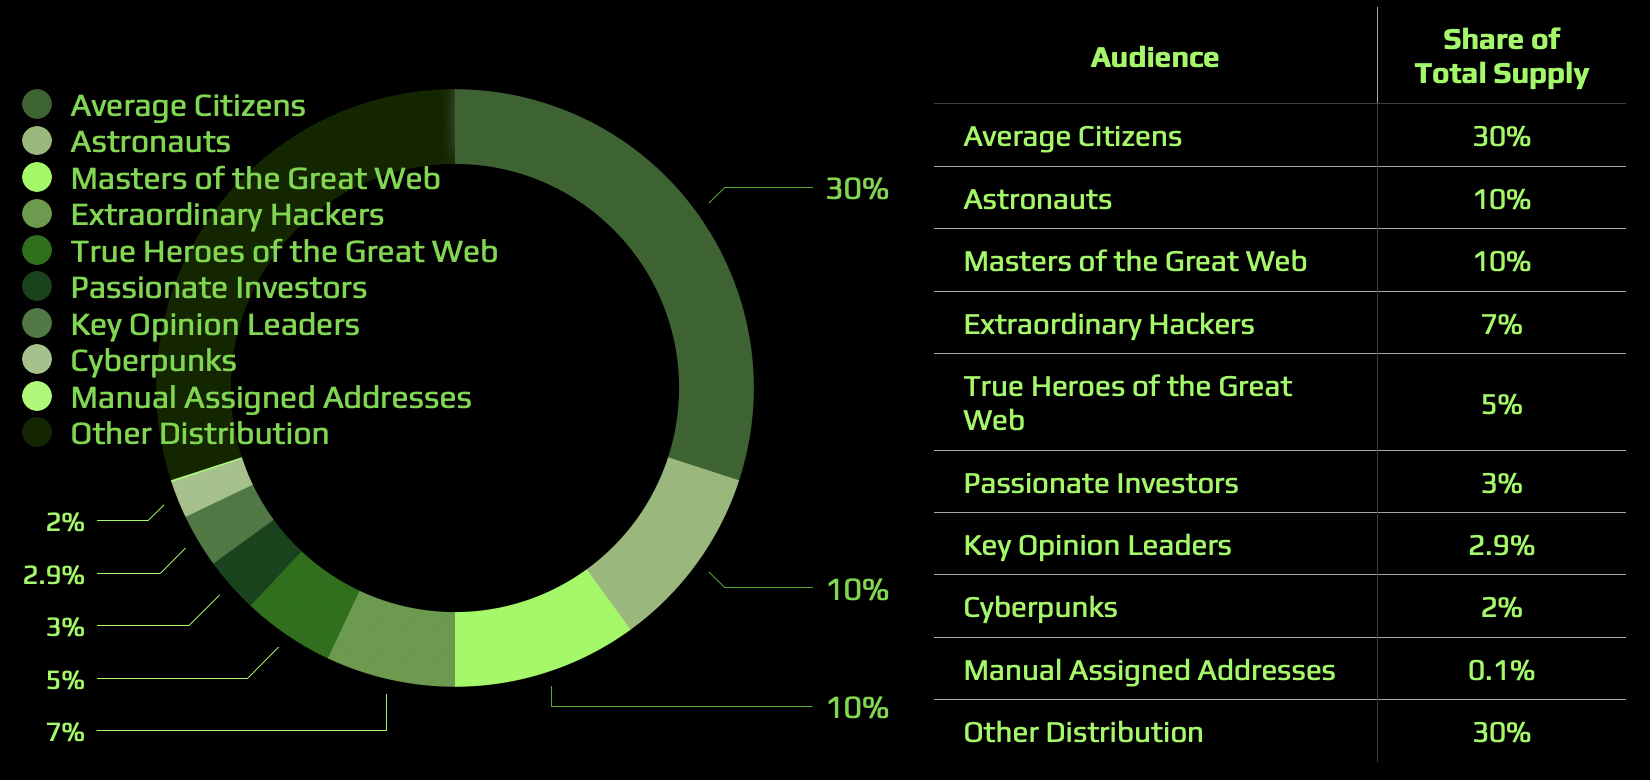
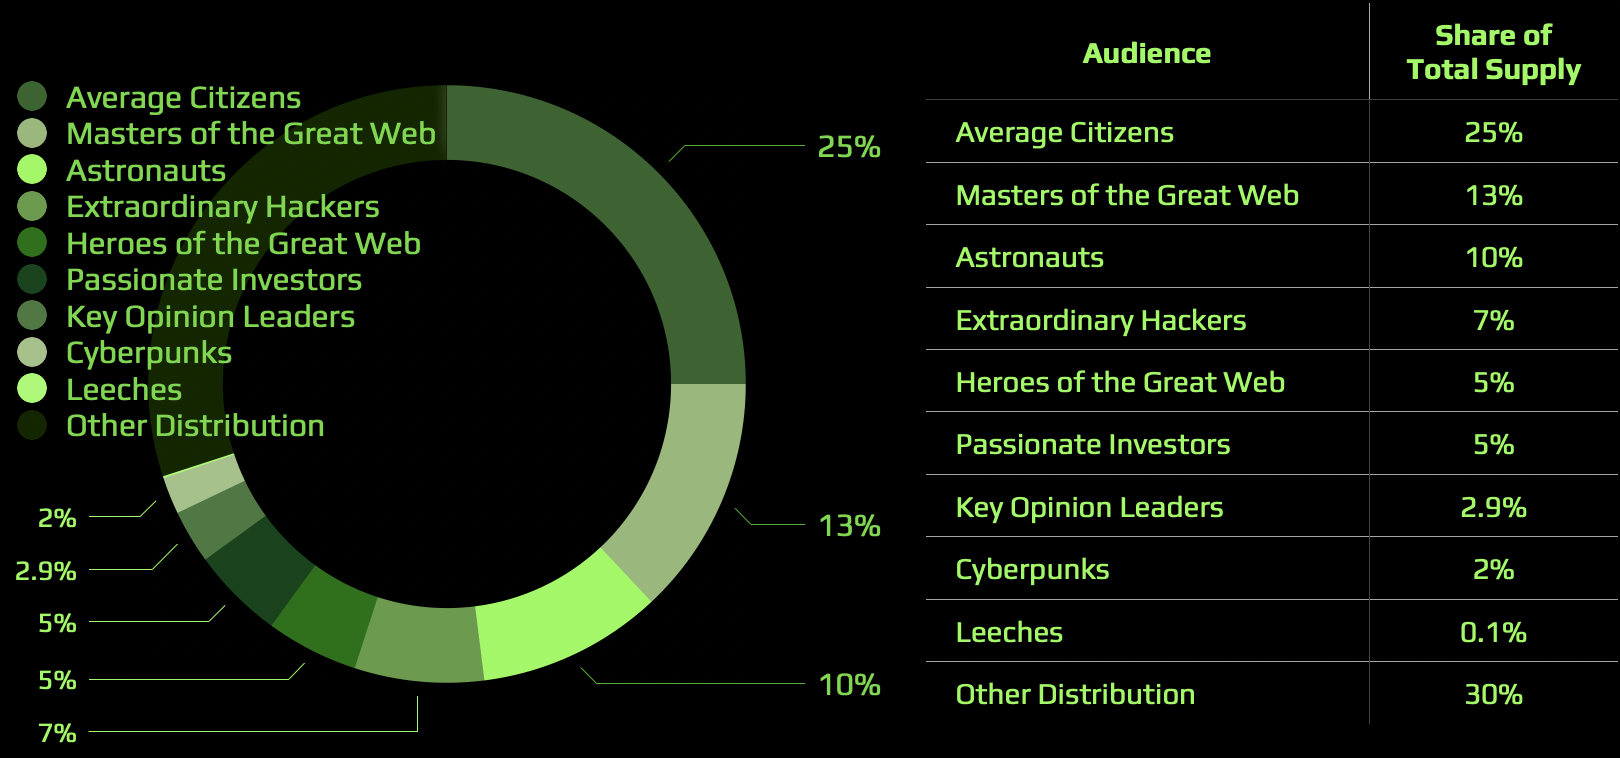
- Change starting incentive coefficient from 20 to 15 - Change distribution between audiences - Recalculate final distribution

diff --git a/README.md b/README.md
@@ -44,13 +44,13 @@ The amount of addresses should also be divided into grades for each audience as
 ## Average Citizens
 - ETH owners and senders of outgoing transactions
 
+## Masters of the Great Web
+- ERC721 owners and creators of contracts using factories
+
 ## Astronauts
 - ATOM owners
 - OSMO owners and liquidity providers
 - LUNA owners
-
-## Masters of the Great Web
-- ERC721 owners and creators of contracts using factories
 
 ## Extraordinary Hackers
  - contract creators
@@ -108,26 +108,6 @@ All distribution rules between grades are calculated in the respective jupyter n
             <td style="text-align: center"> > 485 ETH</td>
         </tr>
         <tr>
-            <td rowspan=3 style="text-align: left"> Astronauts </td>
-            <td style="text-align: left"> ATOM Balance </td>
-            <td style="text-align: center"> > 1 ATOM </td>
-            <td style="text-align: center"> > 180 ATOM </td>
-            <td style="text-align: center"> > 4,352 ATOM </td>
-            <td rowspan=3 style="text-align: center"> <a href="atom_osmo_luna__astronauts.ipynb">ATOM, OSMO and LUNA Analysis</a> </td>
-        </tr>
-        <tr>
-            <td style="text-align: left"> OSMO Balance </td>
-            <td style="text-align: center"> > 1 OSMO </td>
-            <td style="text-align: center"> > 752 OSMO </td>
-            <td style="text-align: center"> > 24,352 OSMO </td>
-        </tr>
-        <tr>
-            <td style="text-align: left"> LUNA Balance </td>
-            <td style="text-align: center"> > 1 LUNA </td>
-            <td style="text-align: center"> > 568 LUNA </td>
-            <td style="text-align: center"> > 12,364 LUNA </td>
-        </tr>
-        <tr>
             <td rowspan=3 style="text-align: left"> Masters of the Great Web </td>
             <td style="text-align: left"> Amount of ERC721 tokens </td>
             <td style="text-align: center"> > 0 NFT </td>
@@ -147,6 +127,26 @@ All distribution rules between grades are calculated in the respective jupyter n
             <td style="text-align: center"> > 0.004 ETH </td>
             <td style="text-align: center"> > 0.477 ETH </td>
             <td style="text-align: center"> <a href="gas__hackers_and_masters.ipynb">Gas Analysis</a> </td>
+        </tr>
+        <tr>
+            <td rowspan=3 style="text-align: left"> Astronauts </td>
+            <td style="text-align: left"> ATOM Balance </td>
+            <td style="text-align: center"> > 1 ATOM </td>
+            <td style="text-align: center"> > 180 ATOM </td>
+            <td style="text-align: center"> > 4,352 ATOM </td>
+            <td rowspan=3 style="text-align: center"> <a href="atom_osmo_luna__astronauts.ipynb">ATOM, OSMO and LUNA Analysis</a> </td>
+        </tr>
+        <tr>
+            <td style="text-align: left"> OSMO Balance </td>
+            <td style="text-align: center"> > 1 OSMO </td>
+            <td style="text-align: center"> > 752 OSMO </td>
+            <td style="text-align: center"> > 24,352 OSMO </td>
+        </tr>
+        <tr>
+            <td style="text-align: left"> LUNA Balance </td>
+            <td style="text-align: center"> > 1 LUNA </td>
+            <td style="text-align: center"> > 568 LUNA </td>
+            <td style="text-align: center"> > 12,364 LUNA </td>
         </tr>
         <tr>
             <td rowspan=2 style="text-align: left"> Extraordinary Hackers </td>
@@ -256,7 +256,7 @@ We've added an incentive to claim gift early.
 There are about **4M** addresses in Gift, but at the same time we expect that only the first **~1/10** accounts can 
 claim them.  
 
-There will be incentive **20x** for those who claim first reducing to **5x** who came last.
+There will be incentive **15x** for those who claim first reducing to **5x** who came last.
 
 <img src="img/incentive_chart.png" width="50%" height="50%" alt="Incentive chart">
 
